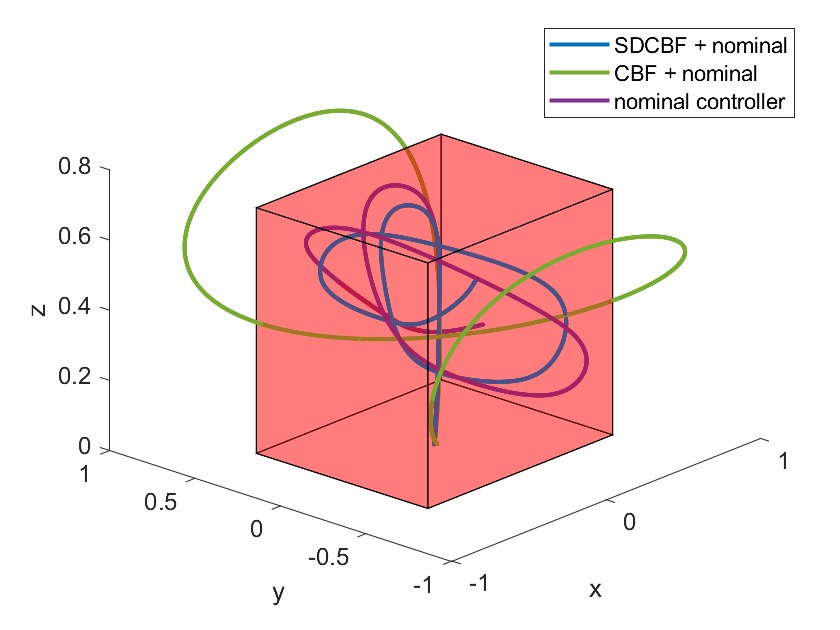
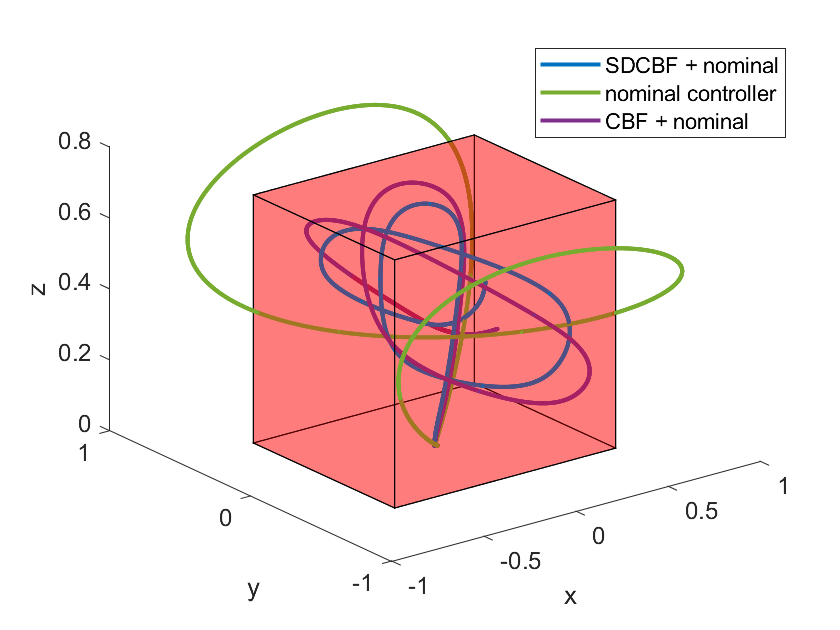
Update plots

diff --git a/sampleCBF_sim_main.m b/sampleCBF_sim_main.m
@@ -398,7 +398,7 @@ if plot_flag > 0
         xlabel('x_1');
         ylabel('x_2');
         set(gca,'FontSize', 12);
-        legend('SDCBF-CLF','CBF-CLF','CLF only');
+        legend('SDCBF-CLF','CLF only','CBF-CLF');
     elseif strcmp(param.example,'spring')
         %%%% Plot time and x1
         t1 = linspace(0,t_end,length(x_sim_sparse(:,1)));
@@ -420,7 +420,7 @@ if plot_flag > 0
         xlabel('time');
         ylabel('x_1');
         set(gca,'FontSize', 12);
-        legend('SDCBF + nominal','CBF + nominal','nominal controller');
+        legend('SDCBF + nominal','nominal controller','CBF + nominal');
         %legend('traj with initreach and CORA range bounding','traj with CLF controller','initial constraint');
 %         gtext('Initial constraint','Color','red','FontSize',12);
 %         gtext('CBF','Color','blue','FontSize',12);
@@ -450,7 +450,7 @@ if plot_flag > 0
         xlabel('x_1');
         ylabel('x_2');
         set(gca,'FontSize', 12);
-        legend('SDCBF + nominal','CBF + nominal','nominal controller');
+        legend('SDCBF + nominal','nominal controller','CBF + nominal');
         %legend('traj with initreach and CORA range bounding','traj with CLF controller','new constraint','original contraint');
 %         gtext('Initial constraint','Color','red','FontSize',12);
 %         gtext('CBF','Color','blue','FontSize',12);

diff --git a/sampleCBF_sim_DI_main.m b/sampleCBF_sim_DI_main.m
@@ -445,7 +445,7 @@ if plot_flag > 0
     hold on;
     if clf_flag > 0
         t2 = linspace(0,t_end,length(x_sim_clf(:,2)));
-        %plot(t2,x_sim_clf(:,2),'Color','#77AC30','LineStyle','--','LineWidth',2);
+        plot(t2,x_sim_clf(:,2),'Color','#77AC30','LineStyle','--','LineWidth',2);
     end
     if cbf_flag > 0
         t3 = linspace(0,t_end,length(x_sim_cbf(:,2)));
@@ -456,7 +456,7 @@ if plot_flag > 0
     xlabel('time');
     ylabel('y');
     set(gca,'FontSize', 12);
-    legend('SDCBF + nominal','CBF + nominal','nominal controller');
+    legend('SDCBF + nominal','nominal controller','CBF + nominal');
 %     t1 = linspace(0,t_end,length(x_sim_sparse(:,2)));
 %     plot(t1,x_sim_sparse(:,2),'Color','#0072BD','LineWidth',2);
 %     hold on;
@@ -503,5 +503,5 @@ if plot_flag > 0
     ylabel('y');
     zlabel('z');
     set(gca,'FontSize', 12);
-    legend('SDCBF + nominal','CBF + nominal','nominal controller');
+    legend('SDCBF + nominal','nominal controller','CBF + nominal');
 end
